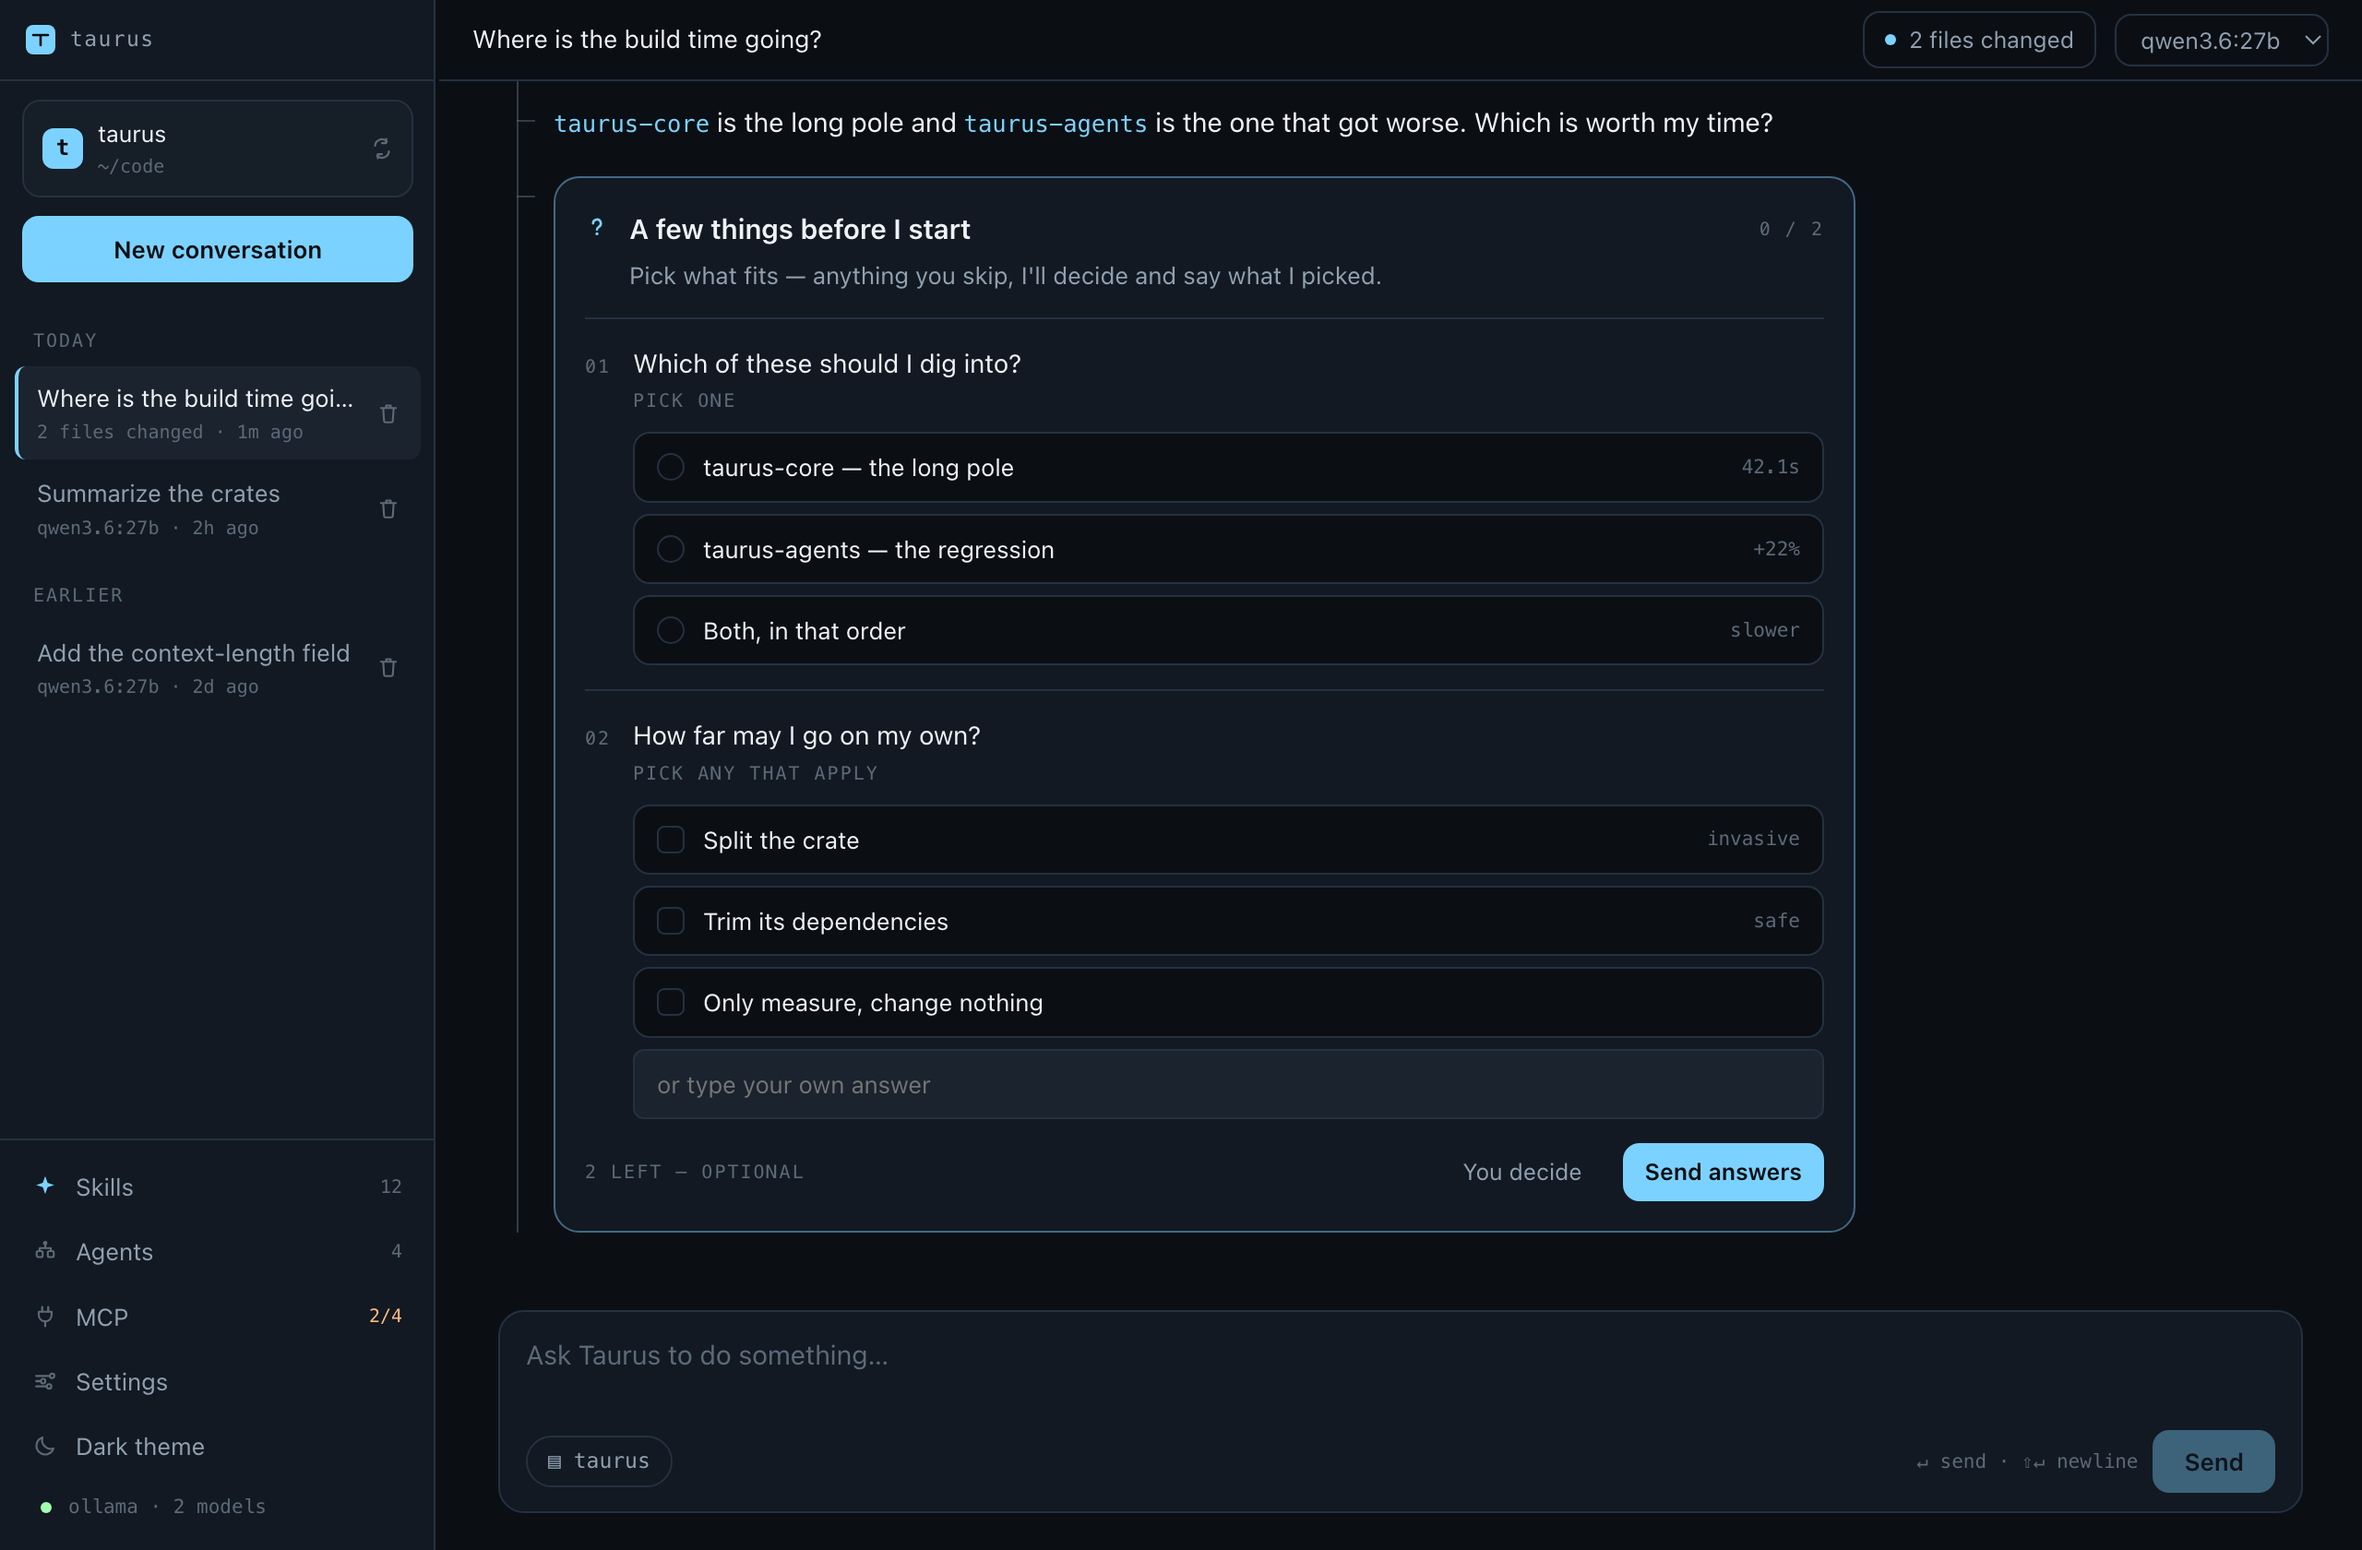
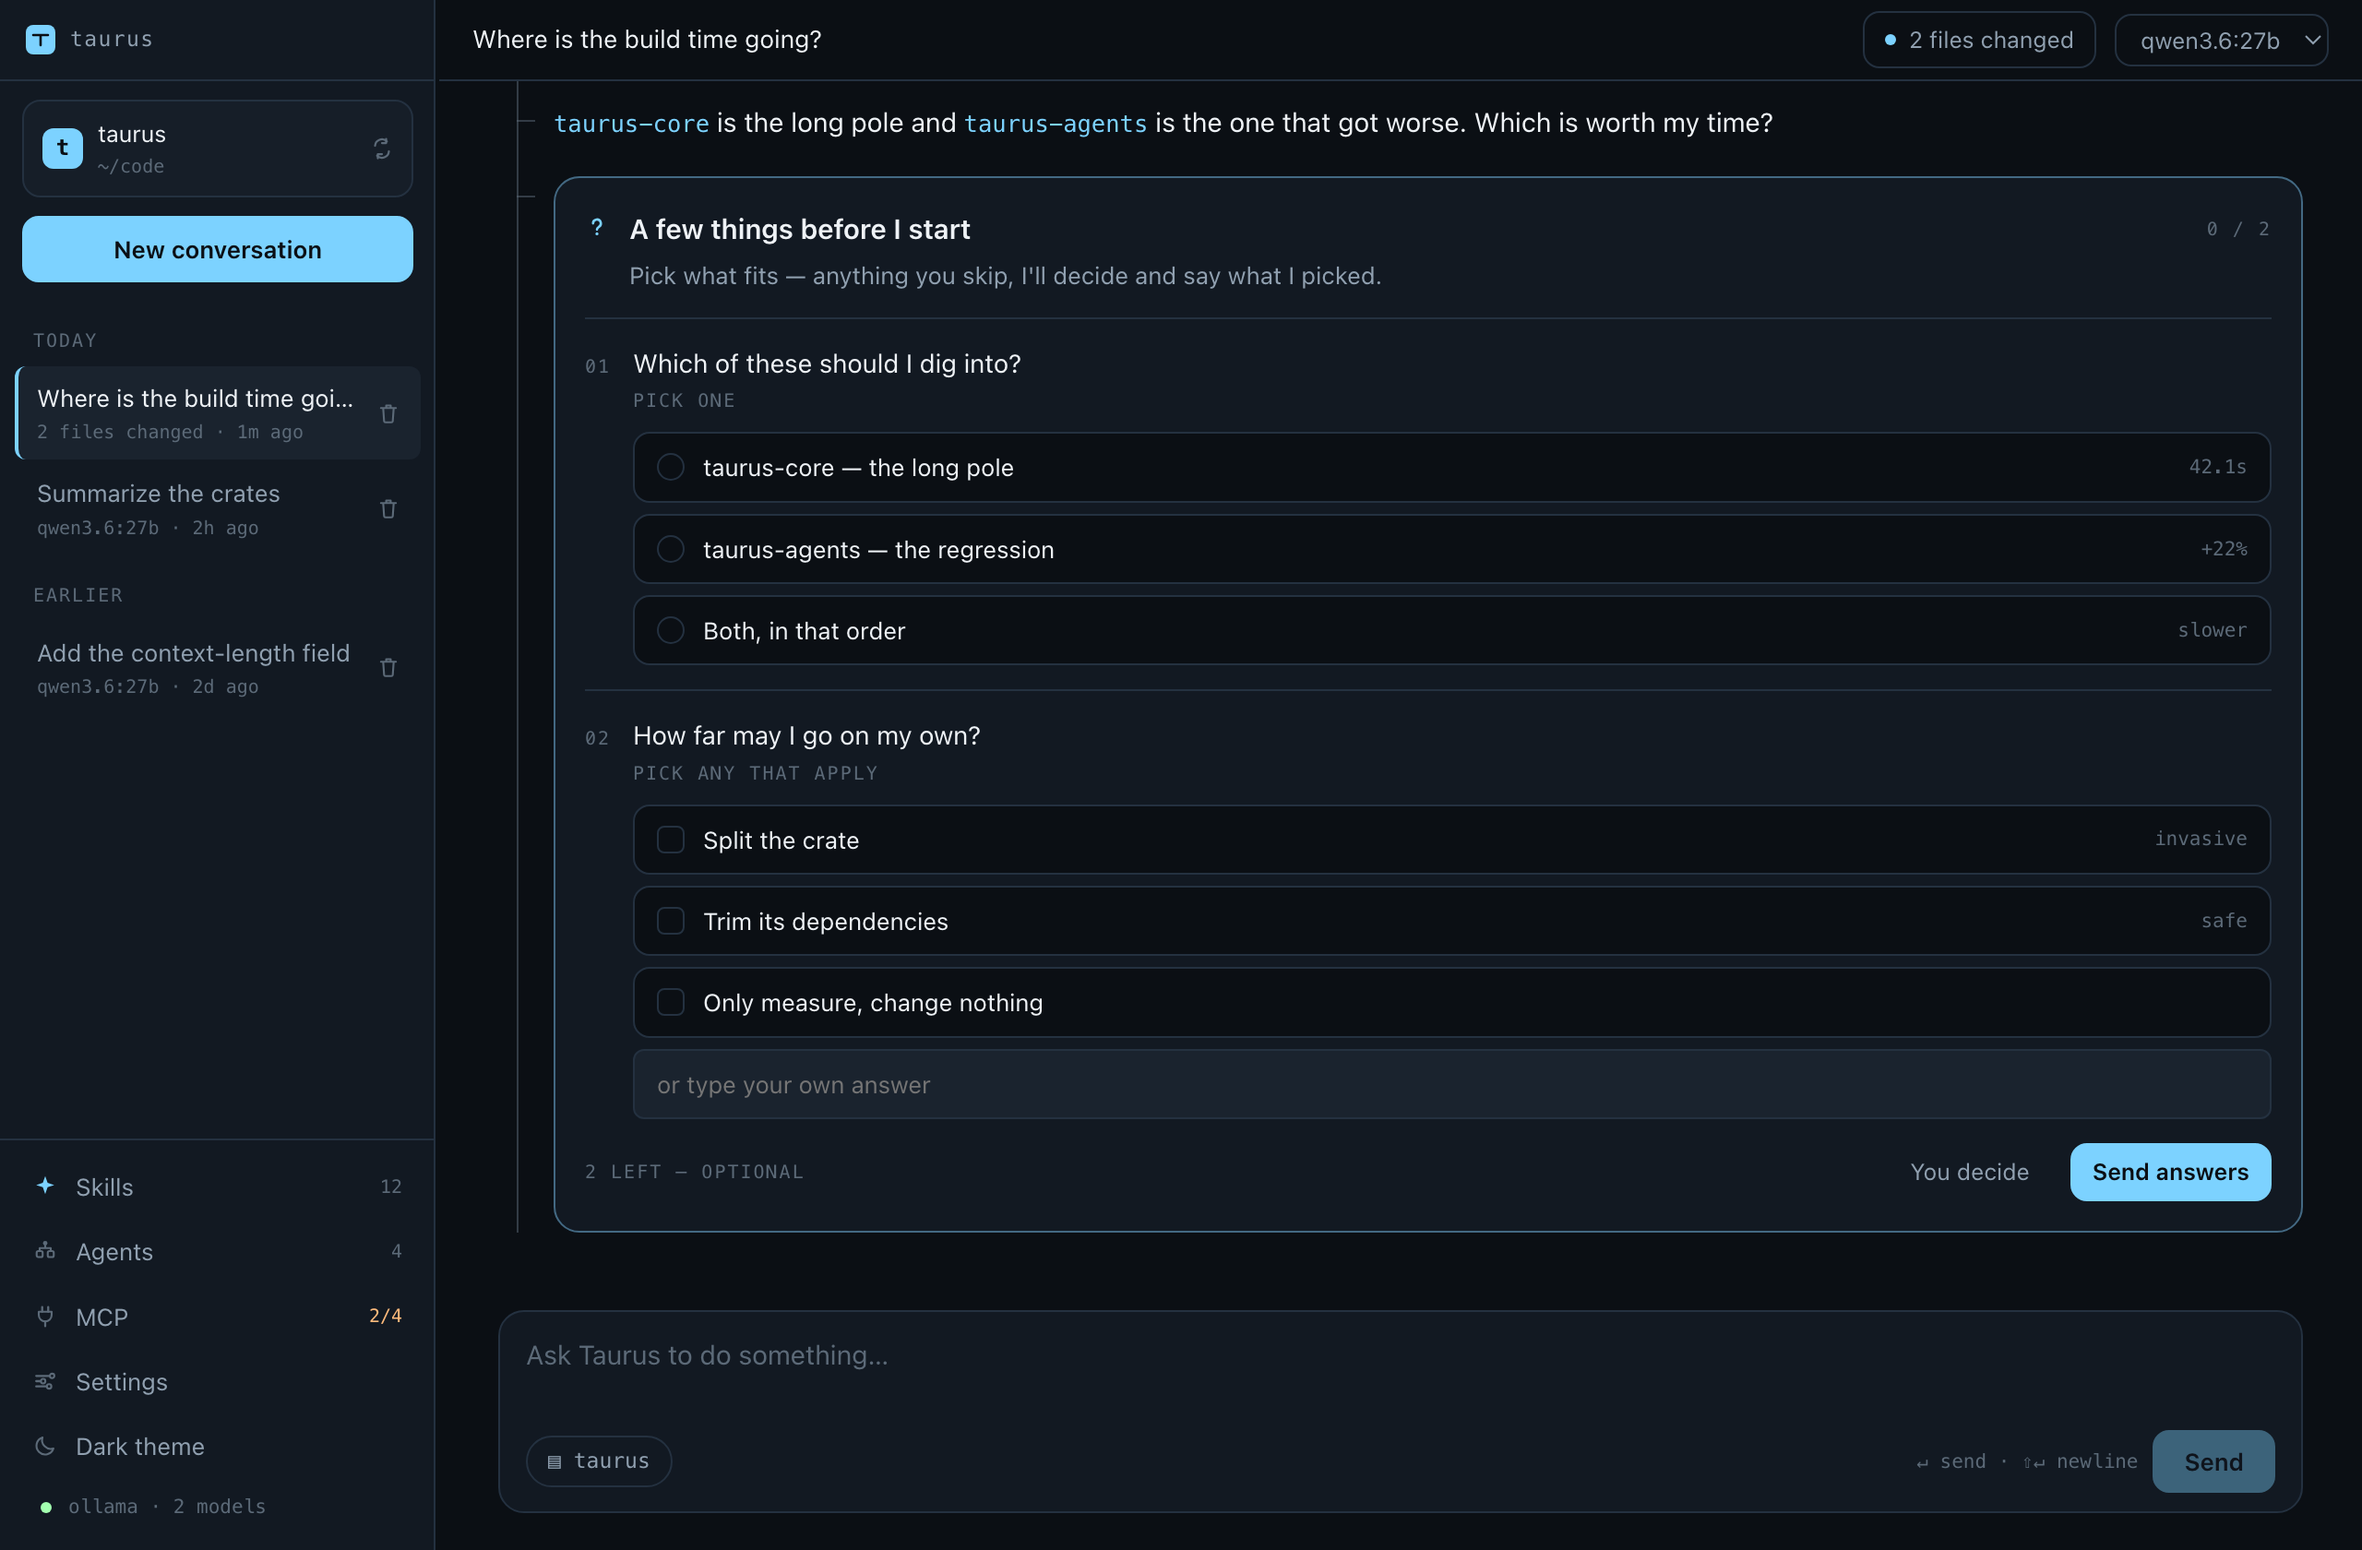
feat: give the transcript the window, and the prose a measure
The transcript column stopped at 80ch while the box you type into filled the
pane, so a conversation was a narrow strip pinned to the left of a window it
never reached the edge of — and everything drawn inside it inherited that strip.
A table with four columns scrolled sideways inside 560px with four hundred
unused pixels beside it, a chart drew its bars into a third of the room it had,
and a flow diagram five stages deep was unreadable for want of width that was
there the whole time.

The cap is now on the sentence rather than on the column.

A turn is as wide as the pane, which is as wide as the composer, so the two
finally line up: a run card, a table, a chart, a diagram, a diff and a question
card all take the window. What does not scale with it is prose — a line is still
tracked left to right by a human eye, and one that runs 1400px is re-read or
skipped. So `--measure` is declared once and named by the handful of rules that
cap text: the question you asked, a notice, a view or proposal caption, a
question's prompt, and a reply's top-level paragraphs, lists and headings.

A reply is the case that made the difference clear. Capping `.markdown` as a box
gave the paragraph the right width by giving the code fence inside it the wrong
one — it scrolled sideways at 80ch with half the window empty beside it. The cap
now lands on the top-level children that are text, and `.md-code` and
`.md-table-wrap` opt out by name.
[…]

Changed region(s): [[0.6875, 0.65, 0.9688, 0.7738], [0.625, 0.7429, 0.6562, 0.7738]]

diff --git a/src/styles.css b/src/styles.css
@@ -113,6 +113,20 @@
      label and a run header line up as the same kind of thing. */
   --tracking-label: 0.1em;
 
+  /*
+   * The reading measure — how wide a *sentence* is allowed to get.
+   *
+   * Not how wide the transcript is. The column itself is the width of the pane,
+   * the same as the box you type into, so a table, a diff, a diagram or a run
+   * card gets the whole window and the conversation lines up with the input
+   * instead of stopping short of it. What does not scale with the window is
+   * prose: a line is still tracked left to right by a human eye, and one that
+   * runs 1400px is re-read or skipped. So the column is responsive and the
+   * sentence inside it is not, and every rule that caps text says so by naming
+   * this rather than repeating a number.
+   */
+  --measure: 80ch;
+
   --mono: var(--lk-mono-face), ui-monospace, "SF Mono", Menlo, Consolas, monospace;
   --sans: var(--lk-body), -apple-system, BlinkMacSystemFont, "Segoe UI", system-ui,
     sans-serif;
@@ -937,9 +951,9 @@ body.resizing * {
   flex-direction: column;
   gap: 18px;
   padding-left: var(--gutter);
-  /* The measure is the content's, not the column's, so the reading width is
-     the same as it was before the gutter existed. */
-  max-width: calc(80ch + var(--gutter));
+  /* No cap. The turn is the width of the pane, which is the width of the
+     composer below it — see --measure for why that does not make the prose wide
+     with it. */
 }
 /*
  * The rail.
@@ -1001,13 +1015,15 @@ body.resizing * {
   color: var(--text);
   white-space: pre-wrap;
   overflow-wrap: anywhere;
+  max-width: var(--measure);
 }
 
+/* The wrapper takes the column; what it holds decides its own width, because a
+   reply is prose and a card in the same box. */
 .entry.assistant {
   display: flex;
   flex-direction: column;
   gap: 12px;
-  max-width: 80ch;
 }
 
 /*
@@ -1096,7 +1112,6 @@ body.resizing * {
   border-radius: var(--r-lg);
   background: var(--bg-raised);
   overflow: hidden;
-  max-width: 80ch;
 }
 .run-head {
   display: flex;
@@ -1260,7 +1275,7 @@ body.resizing * {
   color: var(--text-dim);
   border-left: 2px solid var(--rule);
   padding-left: 12px;
-  max-width: 80ch;
+  max-width: var(--measure);
 }
 .notice.error {
   color: var(--danger);
@@ -1295,11 +1310,17 @@ body.resizing * {
   border-radius: var(--r-xl);
   background: var(--bg-raised);
   padding: 16px;
-  max-width: 80ch;
   display: flex;
   flex-direction: column;
   gap: 13px;
 }
+
+/* All three take the window. A table with eleven columns or a flow five stages
+   deep was the case that scrolled sideways inside 80ch with half the pane empty
+   beside it — and capping only the question card would have widened two members
+   of a family whose whole point, above, is that they are one frame. What is
+   capped is the sentence each of them opens with, not the card: see the measure
+   on `.view-caption` and on a question's prompt, below. */
 
 .view-head,
 .questions-head {
@@ -1318,6 +1339,8 @@ body.resizing * {
   margin: 3px 0 0;
   font-size: 13px;
   color: var(--text-dim);
+  /* A sentence, inside a card that is as wide as the window. */
+  max-width: var(--measure);
 }
 .view-head .micro,
 .questions-head .micro {
@@ -1906,11 +1929,14 @@ body.resizing * {
   gap: 10px;
   align-items: baseline;
 }
+/* The question itself is a sentence, so it takes the measure even though the
+   card around it takes the window. */
 .question-prompt > div {
   display: flex;
   flex-direction: column;
   gap: 2px;
   font-size: 14px;
+  max-width: var(--measure);
 }
 .question-no {
   flex: none;
@@ -2013,10 +2039,24 @@ body.resizing * {
 /* ---------------------------------------------------------------- markdown */
 
 .markdown {
-  max-width: 80ch;
   overflow-wrap: anywhere;
   font-size: 14.5px;
   line-height: 1.6;
+}
+
+/*
+ * The measure, applied to the sentence rather than to the reply.
+ *
+ * A reply is prose and blocks mixed together, and they do not want the same
+ * width: a paragraph is tracked left to right and needs a short line, a code
+ * fence or a table is scanned and needs every pixel it can get. Capping the
+ * whole `.markdown` box gave the paragraph the right width by giving the code
+ * block the wrong one — it scrolled sideways inside 80ch with half the window
+ * unused beside it. So the cap lands on the top-level children that are text,
+ * and the two that are not opt out by name.
+ */
+.markdown > :not(.md-code):not(.md-table-wrap) {
+  max-width: var(--measure);
 }
 
 /* Collapse the outer margins so a reply does not start with a blank line,
@@ -2465,7 +2505,6 @@ body.resizing * {
   border-radius: var(--r-xl);
   background: var(--bg-raised);
   padding: 18px;
-  max-width: 80ch;
 }
 .proposal-head {
   display: flex;
@@ -2484,10 +2523,12 @@ body.resizing * {
   align-items: center;
   flex-wrap: wrap;
 }
+/* The panel is as wide as the composer under it; the line explaining it is not. */
 .proposal-desc {
   margin: 3px 0 0;
   color: var(--text-dim);
   font-size: 13px;
+  max-width: var(--measure);
 }
 .proposal-meta {
   margin: 14px 0;
